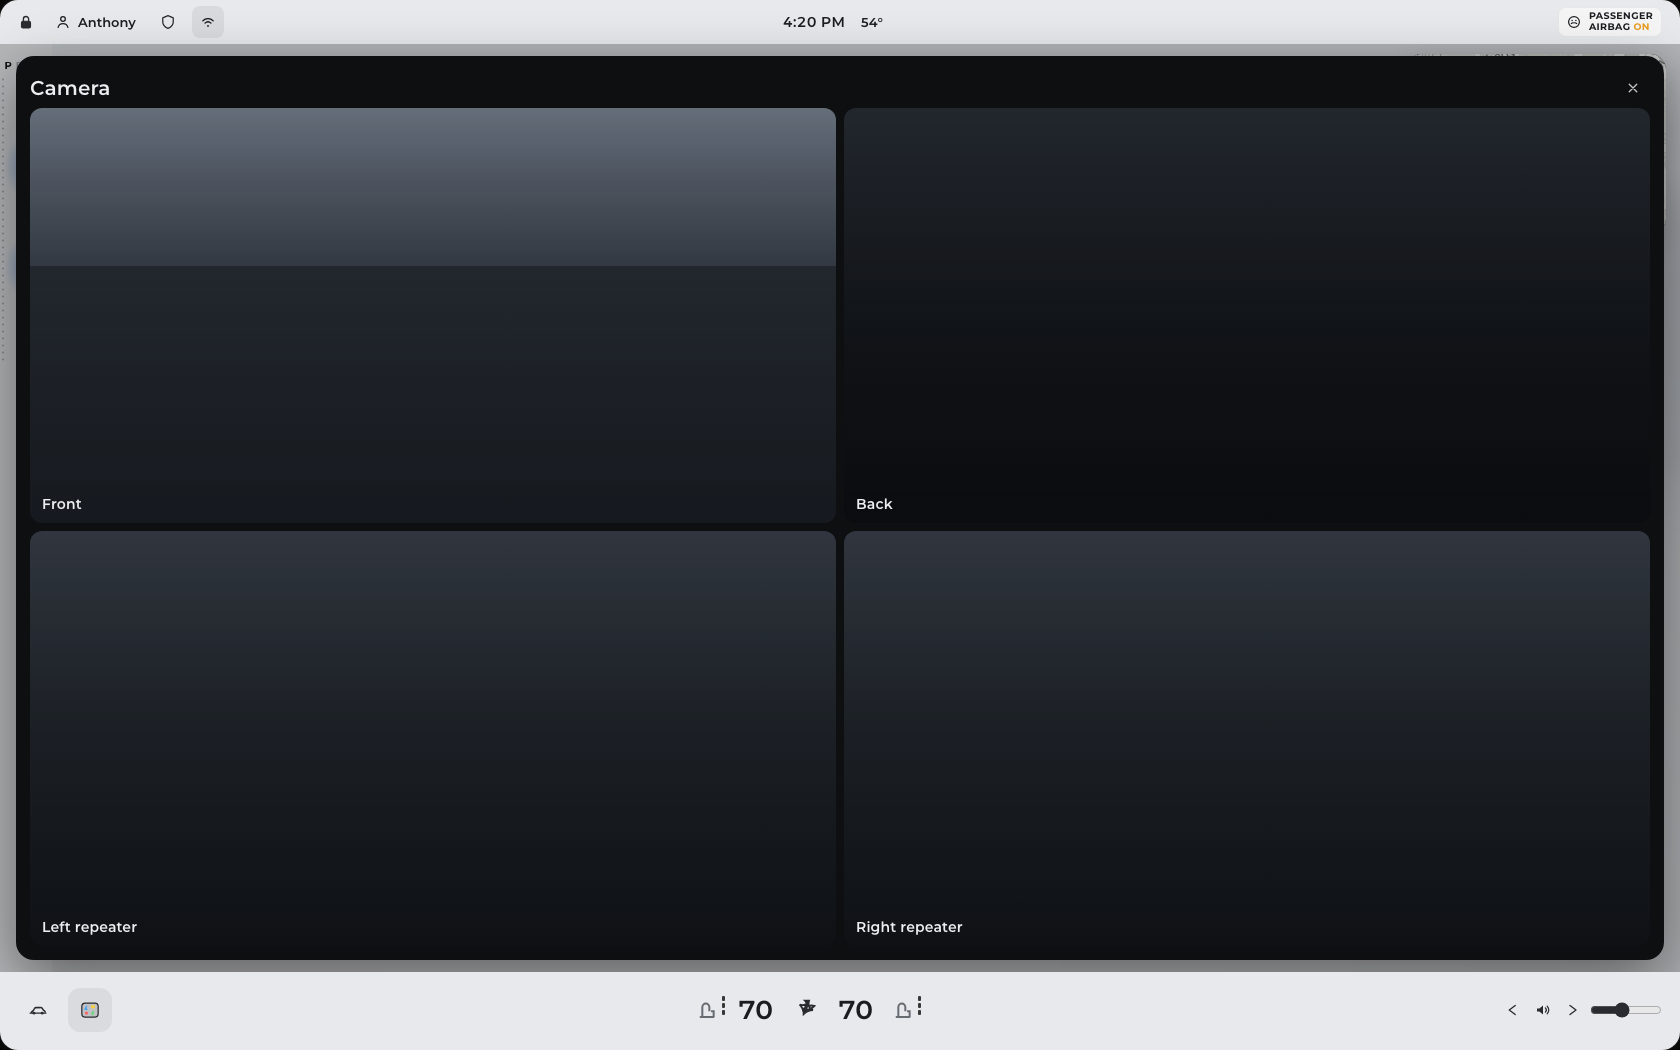
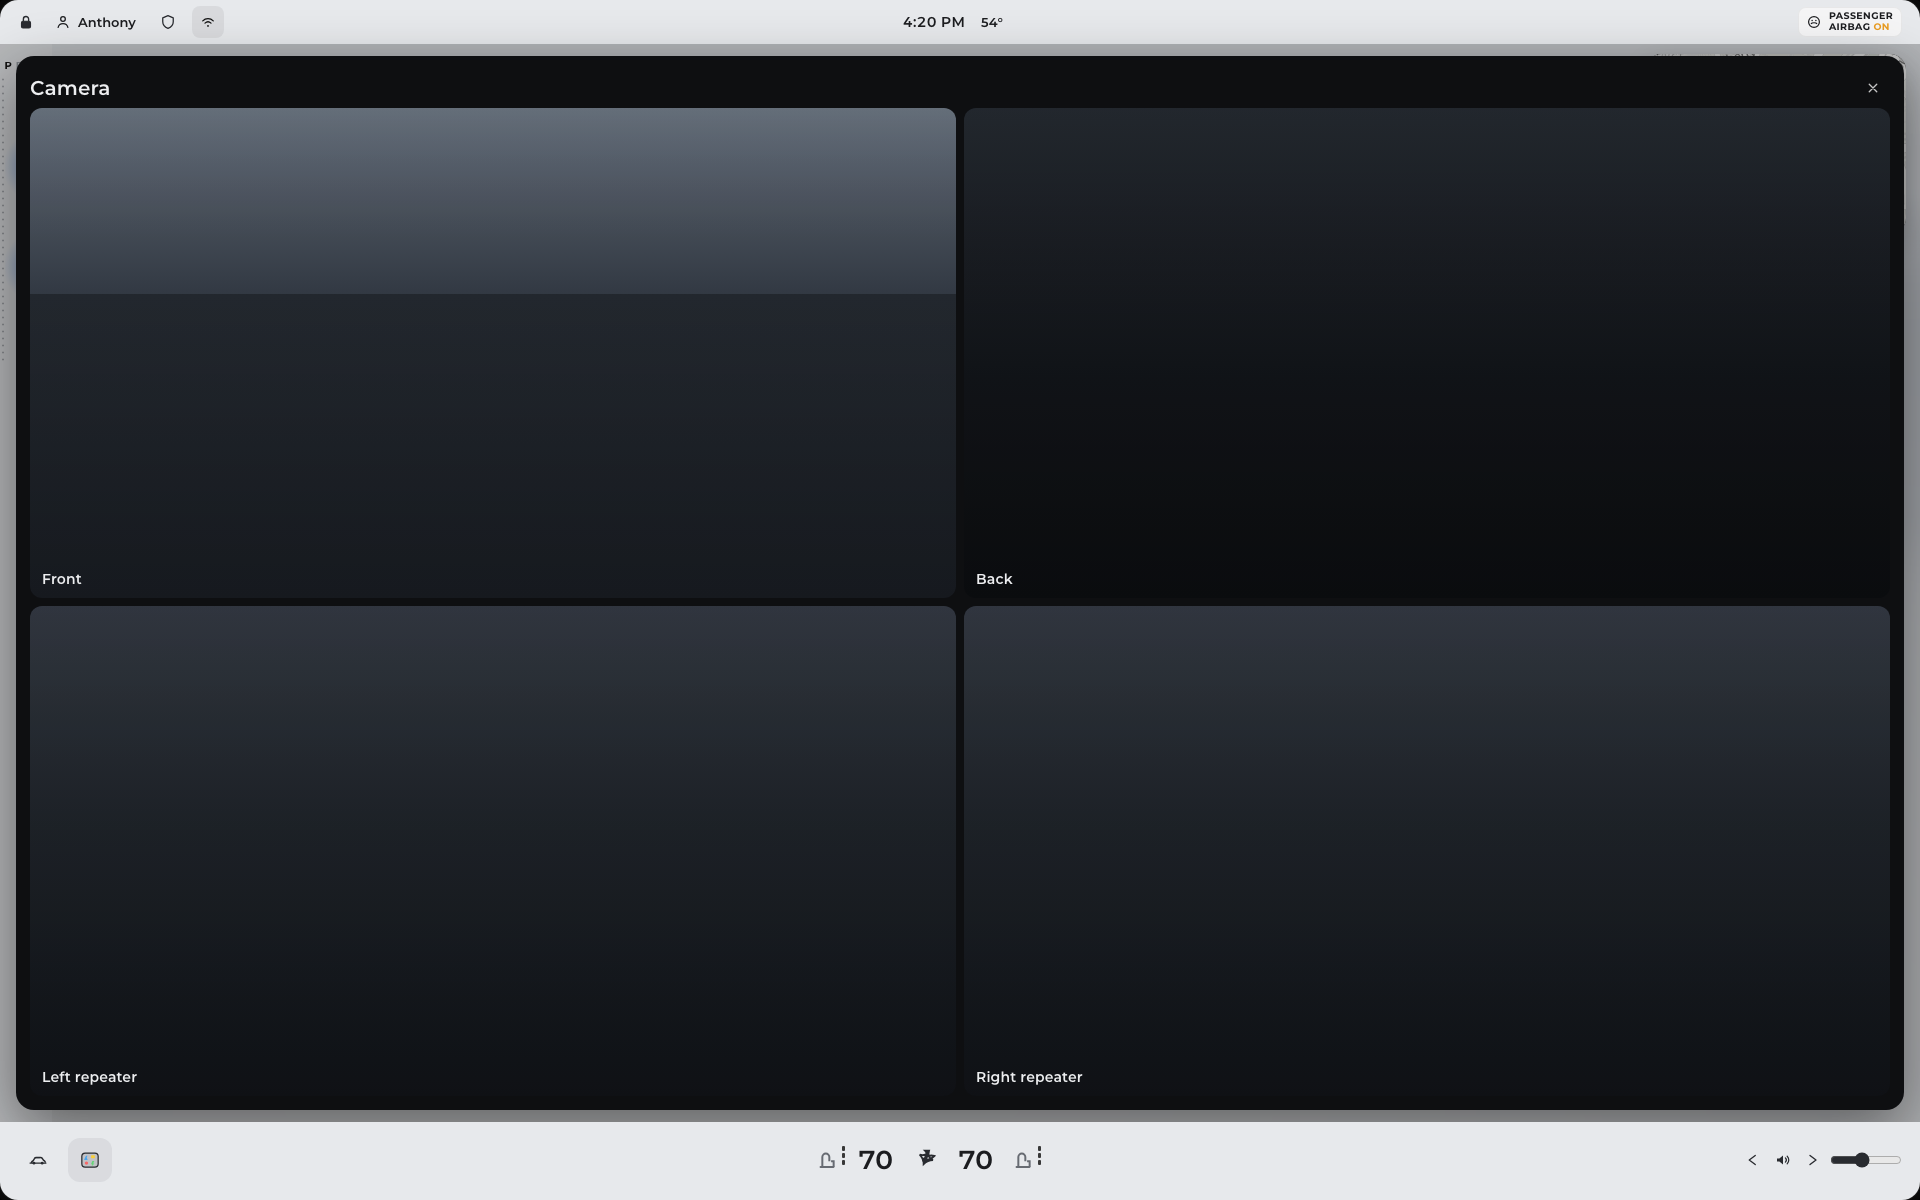
Lock the center display to a 1920×1200 frame.
The UI is laid out at that size on every window and scaled to the largest frame that fits, so phone, laptop, and ultrawide screens keep the same ratio.

diff --git a/tests/visual/portrait.spec.ts b/tests/visual/portrait.spec.ts
@@ -85,25 +85,42 @@ async function layoutReport(page: Page): Promise<LayoutReport> {
   });
 }
 
-test("portrait 390 keeps charge, navigate, volume, and the disclaimer on screen", async ({ page }) => {
+async function expectCenterAspect(page: Page) {
+  const box = await page.locator(".bezel").evaluate((el) => {
+    const r = el.getBoundingClientRect();
+    return { width: r.width, height: r.height, x: r.x, y: r.y, vw: window.innerWidth, vh: window.innerHeight };
+  });
+  expect(box.height).toBeGreaterThan(40);
+  expect(box.width / box.height).toBeCloseTo(1920 / 1200, 2);
+  expect(box.x).toBeGreaterThanOrEqual(-1);
+  expect(box.y).toBeGreaterThanOrEqual(-1);
+  expect(box.x + box.width).toBeLessThanOrEqual(box.vw + 1);
+  expect(box.y + box.height).toBeLessThanOrEqual(box.vh + 1);
+  const fillsWidth = Math.abs(box.width - box.vw) <= 2;
+  const fillsHeight = Math.abs(box.height - box.vh) <= 2;
+  expect(fillsWidth || fillsHeight).toBe(true);
+}
+
+test("portrait 390 keeps the 1920×1200 display, charge, navigate, volume, and the disclaimer on screen", async ({ page }) => {
   await page.setViewportSize({ width: 390, height: 844 });
   await page.goto("/tesla-m3y-ui/", { waitUntil: "domcontentloaded" });
   await page.locator(".bottom-dock").waitFor();
+  await expectCenterAspect(page);
 
   const parked = await layoutReport(page);
   expect(parked.scrollW).toBeLessThanOrEqual(parked.clientW + 1);
   expect(parked.outside).toEqual([]);
   expect(parked.dockOverlap).toBe(false);
   expect(parked.disclaimerFits).toBe(true);
-  expect(parked.hotspots).toBe("grid");
+  expect(parked.hotspots).toBe("none");
   // Pinned app icons were removed from the dock (touchscreen PDF p.8: Car + All Apps only).
   expect(parked.myApps).toBe("absent");
-  expect(parked.volumeY - parked.climateY).toBeGreaterThan(30);
+  expect(Math.abs(parked.climateY - parked.volumeY)).toBeLessThan(12);
 
-  const charge = page.getByRole("button", { name: "Open charge port" });
+  const charge = page.locator('[data-hotspot="charge"] button');
   await expect(charge).toBeVisible();
   await charge.dispatchEvent("click");
-  await expect(page.getByRole("button", { name: "Close charge port" })).toBeVisible();
+  await expect(charge).toHaveText(/Close/);
   await expect(page.getByPlaceholder("Navigate")).toBeVisible();
   await expect(page.getByRole("slider", { name: "Volume" })).toBeVisible();
   await expect(page.getByRole("button", { name: "OK" })).toBeVisible();
@@ -126,6 +143,7 @@ test("landscape and desktop keep the single-row dock", async ({ page }) => {
   await page.goto("/tesla-m3y-ui/", { waitUntil: "domcontentloaded" });
   await page.locator(".bottom-dock").waitFor();
 
+  await expectCenterAspect(page);
   const desktop = await layoutReport(page);
   expect(desktop.scrollW).toBeLessThanOrEqual(desktop.clientW + 1);
   expect(desktop.hotspots).toBe("none");
@@ -134,9 +152,21 @@ test("landscape and desktop keep the single-row dock", async ({ page }) => {
 
   await page.setViewportSize({ width: 844, height: 390 });
   await page.waitForTimeout(50);
+  await expectCenterAspect(page);
   const landscape = await layoutReport(page);
   expect(landscape.scrollW).toBeLessThanOrEqual(landscape.clientW + 1);
   expect(landscape.hotspots).toBe("none");
   expect(landscape.myApps).toBe("absent");
   expect(Math.abs(landscape.climateY - landscape.volumeY)).toBeLessThan(12);
+
+  await page.setViewportSize({ width: 1920, height: 1200 });
+  await page.waitForTimeout(50);
+  await expectCenterAspect(page);
+  const exact = await page.locator(".bezel").boundingBox();
+  expect(exact?.width).toBeGreaterThan(1910);
+  expect(exact?.height).toBeGreaterThan(1190);
+
+  await page.setViewportSize({ width: 2560, height: 1080 });
+  await page.waitForTimeout(50);
+  await expectCenterAspect(page);
 });

diff --git a/src/chrome/displayFrame.ts b/src/chrome/displayFrame.ts
@@ -1,0 +1,71 @@
+import { useEffect, useState } from "react";
+
+/** Model 3/Y center display. The UI is laid out at this size on every device. */
+export const CENTER_DISPLAY_WIDTH = 1920;
+export const CENTER_DISPLAY_HEIGHT = 1200;
+
+export interface ViewportBox {
+  width: number;
+  height: number;
+  offsetLeft?: number;
+  offsetTop?: number;
+}
+
+export interface CenterDisplayFrame {
+  scale: number;
+  width: number;
+  height: number;
+  left: number;
+  top: number;
+}
+
+/**
+ * Largest 1920×1200 frame that fits in the viewport. The layout size stays
+ * 1920×1200; `scale` is the uniform fit, and `width`/`height` are the fitted box.
+ */
+export function centerDisplayFrame(viewport: ViewportBox): CenterDisplayFrame {
+  const vw = viewport.width;
+  const vh = viewport.height;
+  const scale = vw > 0 && vh > 0 ? Math.min(vw / CENTER_DISPLAY_WIDTH, vh / CENTER_DISPLAY_HEIGHT) : 1;
+  const width = CENTER_DISPLAY_WIDTH * scale;
+  const height = CENTER_DISPLAY_HEIGHT * scale;
+  const offsetLeft = viewport.offsetLeft ?? 0;
+  const offsetTop = viewport.offsetTop ?? 0;
+  return {
+    scale,
+    width,
+    height,
+    left: offsetLeft + Math.max(0, vw - width) / 2,
+    top: offsetTop + Math.max(0, vh - height) / 2,
+  };
+}
+
+export function readViewport(): ViewportBox {
+  if (typeof window === "undefined") {
+    return { width: CENTER_DISPLAY_WIDTH, height: CENTER_DISPLAY_HEIGHT, offsetLeft: 0, offsetTop: 0 };
+  }
+  const vv = window.visualViewport;
+  return {
+    width: vv?.width ?? window.innerWidth,
+    height: vv?.height ?? window.innerHeight,
+    offsetLeft: vv?.offsetLeft ?? 0,
+    offsetTop: vv?.offsetTop ?? 0,
+  };
+}
+
+export function useCenterDisplayFrame(): CenterDisplayFrame {
+  const [frame, setFrame] = useState(() => centerDisplayFrame(readViewport()));
+  useEffect(() => {
+    const apply = () => setFrame(centerDisplayFrame(readViewport()));
+    apply();
+    window.addEventListener("resize", apply);
+    window.visualViewport?.addEventListener("resize", apply);
+    window.visualViewport?.addEventListener("scroll", apply);
+    return () => {
+      window.removeEventListener("resize", apply);
+      window.visualViewport?.removeEventListener("resize", apply);
+      window.visualViewport?.removeEventListener("scroll", apply);
+    };
+  }, []);
+  return frame;
+}

diff --git a/src/chrome/displayFrame.test.ts b/src/chrome/displayFrame.test.ts
@@ -1,0 +1,49 @@
+import { describe, expect, it } from "vitest";
+import { CENTER_DISPLAY_HEIGHT, CENTER_DISPLAY_WIDTH, centerDisplayFrame } from "./displayFrame";
+
+const RATIO = CENTER_DISPLAY_WIDTH / CENTER_DISPLAY_HEIGHT;
+
+function expectFitted(viewport: { width: number; height: number; offsetLeft?: number; offsetTop?: number }) {
+  const frame = centerDisplayFrame(viewport);
+  expect(frame.width / frame.height).toBeCloseTo(RATIO, 6);
+  expect(frame.width).toBeCloseTo(CENTER_DISPLAY_WIDTH * frame.scale, 6);
+  expect(frame.height).toBeCloseTo(CENTER_DISPLAY_HEIGHT * frame.scale, 6);
+  expect(frame.width).toBeLessThanOrEqual(viewport.width + 0.001);
+  expect(frame.height).toBeLessThanOrEqual(viewport.height + 0.001);
+  expect(frame.scale).toBeCloseTo(Math.min(viewport.width / CENTER_DISPLAY_WIDTH, viewport.height / CENTER_DISPLAY_HEIGHT), 6);
+  const fillsWidth = Math.abs(frame.width - viewport.width) < 0.001;
+  const fillsHeight = Math.abs(frame.height - viewport.height) < 0.001;
+  expect(fillsWidth || fillsHeight).toBe(true);
+  return frame;
+}
+
+describe("center display frame", () => {
+  it("is exactly 1920×1200 when the viewport is the center display", () => {
+    const frame = expectFitted({ width: 1920, height: 1200 });
+    expect(frame.scale).toBe(1);
+    expect(frame.left).toBe(0);
+    expect(frame.top).toBe(0);
+  });
+
+  it("keeps 1920:1200 on a phone, a laptop, and an ultrawide", () => {
+    const phone = expectFitted({ width: 390, height: 844 });
+    expect(phone.scale).toBeCloseTo(390 / 1920, 6);
+    expect(phone.left).toBeCloseTo(0, 6);
+    expect(phone.top).toBeGreaterThan(0);
+
+    const laptop = expectFitted({ width: 1512, height: 982 });
+    expect(laptop.width / laptop.height).toBeCloseTo(RATIO, 6);
+
+    const wide = expectFitted({ width: 2560, height: 1080 });
+    expect(wide.height).toBeCloseTo(1080, 6);
+    expect(wide.left).toBeGreaterThan(0);
+    expect(wide.top).toBeCloseTo(0, 6);
+  });
+
+  it("centers inside a visual viewport that is offset from the layout viewport", () => {
+    const frame = expectFitted({ width: 800, height: 600, offsetLeft: 12, offsetTop: 40 });
+    expect(frame.width).toBeCloseTo(800, 6);
+    expect(frame.left).toBeCloseTo(12, 6);
+    expect(frame.top).toBeCloseTo(40 + (600 - frame.height) / 2, 6);
+  });
+});

diff --git a/src/App.tsx b/src/App.tsx
@@ -1,4 +1,5 @@
 import { lazy, Suspense, useEffect, useRef } from "react";
+import { CENTER_DISPLAY_HEIGHT, CENTER_DISPLAY_WIDTH, useCenterDisplayFrame } from "./chrome/displayFrame";
 import { VIZ_RATIO_MAX, VIZ_RATIO_MIN, WORK_PLACE } from "./geo/constants";
 import { indexFor, interpolate } from "./geo/polyline";
 import { useVehicle } from "./state/store";
@@ -178,6 +179,7 @@ export default function App() {
   const showMap = showsNavigationMap(gear);
   const mini = showMap && useMiniMap(parked, vizRatio);
   const appearance = flags.appearance === "light" ? "theme-light" : "theme-dark";
+  const frame = useCenterDisplayFrame();
 
   return (
     <div
@@ -189,7 +191,17 @@ export default function App() {
       style={{ ["--viz-ratio" as string]: String(vizRatio) }}
     >
       <QaReady />
-      <div className={`bezel ${parked ? "parked" : "driving"} ${rear ? "rear" : ""}`} style={{ filter: `brightness(${0.72 + flags.brightness / 280})` }}>
+      <div className="display-frame" style={{ width: frame.width, height: frame.height, left: frame.left, top: frame.top }}>
+      <div
+        className={`bezel ${parked ? "parked" : "driving"} ${rear ? "rear" : ""}`}
+        style={{
+          width: CENTER_DISPLAY_WIDTH,
+          height: CENTER_DISPLAY_HEIGHT,
+          transform: `scale(${frame.scale})`,
+          transformOrigin: "top left",
+          filter: `brightness(${0.72 + flags.brightness / 280})`,
+        }}
+      >
         <StatusBar />
         <div className="display-main">
           <DriveStrip />
@@ -237,6 +249,7 @@ export default function App() {
         <BottomDock />
         <DriveLoop />
         <DemoBoot />
+      </div>
       </div>
     </div>
   );

diff --git a/src/styles/app.css b/src/styles/app.css
@@ -94,16 +94,19 @@ button {
 .shell {
   height: 100%;
   overflow: hidden;
-  display: grid;
-  place-items: center;
   background:
     radial-gradient(1200px 600px at 50% -10%, #1a1a1a 0%, transparent 55%),
     #050505;
 }
 
+.display-frame {
+  position: fixed;
+  overflow: hidden;
+}
+
 .bezel {
-  width: min(100vw, 1680px);
-  height: min(100vh, 1050px);
+  width: 1920px;
+  height: 1200px;
   background: #000;
   border-radius: 18px;
   overflow: hidden;
@@ -2967,7 +2970,8 @@ button {
   display: none;
 }
 
-@media (max-width: 980px) {
+/* The center display stays 1920×1200 and scales to the window, so device width does not reflow it. */
+@media not all {
   .bezel {
     border-radius: 0;
     width: 100%;
@@ -3005,7 +3009,7 @@ button {
   display: contents;
 }
 
-@media (max-width: 520px) {
+@media not all {
   .bezel,
   .bezel.parked {
     --dock-h: 112px;
@@ -3996,7 +4000,7 @@ button {
   font-weight: 650;
 }
 
-@media (max-width: 520px) {
+@media not all {
   .climate-full {
     grid-template-rows: 52px auto 1fr auto;
   }

diff --git a/docs/qa/CHECKLIST.md b/docs/qa/CHECKLIST.md
@@ -37,7 +37,7 @@ Baseline captured from this harness on 2026-09-16 (`docs/qa/screenshots/*.png`).
 | Reverse | manual: map on except Reverse | PARTIAL | 2026-09-29: gear R hides the navigation map and shows the rear of the Highland with ground guidance. Not a backup camera. Park restores the parked shell. |
 | PRND / Auto Shift | `nata-auto-shift.jpg` | PARTIAL | 2026-09-28: parked column is PRND header, dotted rails on both sides, D, blue magnet with ^^ chevrons, top-down car, blue magnet with vv chevrons, R. Driving still uses the taller strip. |
 | Dock: My Apps + climate cluster + volume | `manual-m3-touchscreen-p8.jpg` | PARTIAL | 2026-09-28: extra pinned Camera/Calendar/Energy icons removed; dock is Car + All Apps, climate cluster, volume. Touching the temperature opens the full climate screen (manual p.156). |
-| Phone portrait (~390×844) | Mobile QA, not a Tesla phone UI | PASS | At ≤520px the dock is two rows (climate, then apps + volume). Charge/Frunk/Trunk are in-layout buttons; Navigate is full width; the disclaimer wraps inside the viewport. ≥521px, including phone landscape, keeps the single-row dock and 3D callouts. |
+| Center display frame | 1920×1200 center screen | PASS | The UI is laid out at 1920×1200 on every device and scaled uniformly to the largest frame that fits. Phone, laptop, and ultrawide windows keep that ratio. The single-row dock and 3D callouts stay. |
 | Vertical power / regen meter | `nata-regen-speedometer.jpg` | PARTIAL | 2026-09-28: segmented column (14 power segments above a zero tick, 14 green regen below), lit from `meterSegments()`. Not pixel-matched to Tesla's graphic. |
 | Larger speed readout | `nata-regen-speedometer.jpg`, driving-status PDF | PARTIAL | ~128px tabular speed on the viz, with limit sign and blue set-speed above the road. Montserrat, not Tesla’s type. |
 | Map orientation + tracking chip | Maps PDF p.169 | PARTIAL | 2026-09-28: dragging the map shows a "Tracking Disabled" chip beside the orientation button for ~3 s, and the icon turns gray until recenter. Not covered by a QA still (all scenes track). |
